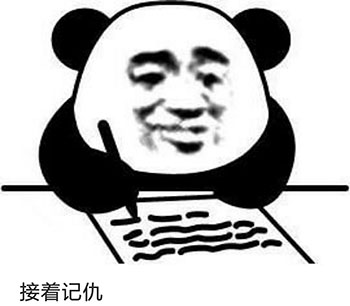
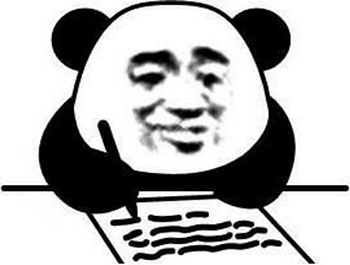
改样式和图片

diff --git a/css/jichou.css b/css/jichou.css
@@ -21,7 +21,7 @@ body{
 				text-align: center;
 			}
 			.content .editor{
-				margin: 5px 10px;
+				margin: 0 10px;
 				font-size: 18px;
 				text-align: center;
 			}
